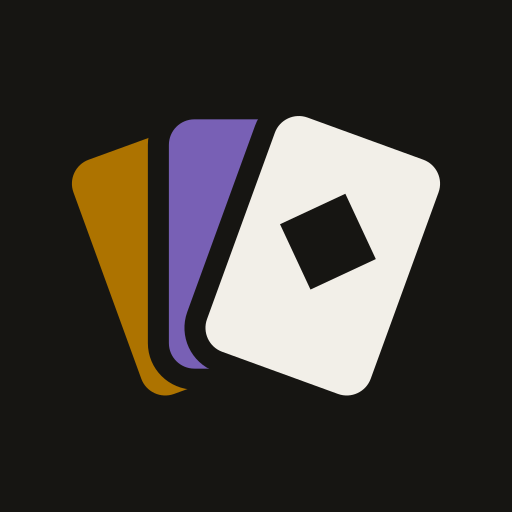
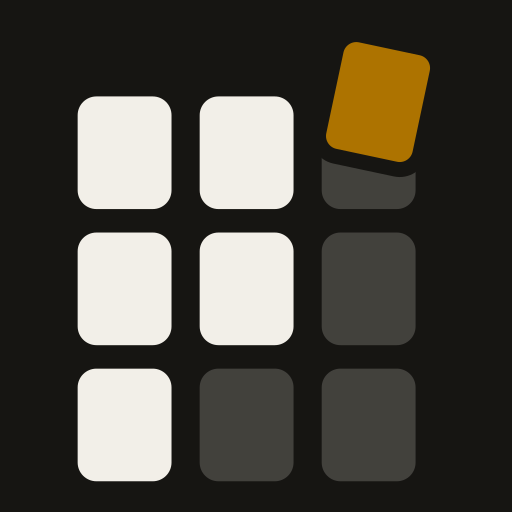
chore: binderly identity

diff --git a/components/atoms/logo.tsx b/components/atoms/logo.tsx
@@ -4,29 +4,35 @@ interface LogoProps {
   tone?: "light" | "dark";
 }
 
-// A fanned hand of three cards: amber for Pokémon, violet for Magic, ink for the collection.
+// A 9-pocket binder page filling up: ink cards, empty pockets, and the gold hit popping out of its slot.
+const POCKETS = [
+  { x: 6, y: 5, filled: true },
+  { x: 19, y: 5, filled: true },
+  { x: 32, y: 5, filled: false },
+  { x: 6, y: 19.5, filled: true },
+  { x: 19, y: 19.5, filled: true },
+  { x: 32, y: 19.5, filled: false },
+  { x: 6, y: 34, filled: true },
+  { x: 19, y: 34, filled: false },
+  { x: 32, y: 34, filled: false },
+];
+
 const Logo = ({ size = 32, variant = "full", tone }: LogoProps) => {
   // Without a tone the logo follows the current theme.
   const ink = tone ? (tone === "dark" ? "#FBFAF7" : "#1D1B18") : "rgb(var(--cm-ink))";
   const paper = tone ? (tone === "dark" ? "#1D1B18" : "#FBFAF7") : "rgb(var(--cm-paper))";
-  const muted = tone ? (tone === "dark" ? "#A8A298" : "#6B665E") : "rgb(var(--cm-ink-muted))";
 
   return (
-    <div className="inline-flex items-center" style={{ gap: Math.round(size * 0.34), color: ink }}>
-      <svg width={size} height={size} viewBox="2 1.5 28 27" className="flex-none block overflow-visible" aria-hidden>
-        <rect x="9.5" y="5" width="13" height="18" rx="2.4" fill="oklch(0.6 0.13 75)" style={{ stroke: paper }} strokeWidth="1.4" transform="rotate(-20 16 27)" />
-        <rect x="9.5" y="5" width="13" height="18" rx="2.4" fill="oklch(0.55 0.13 295)" style={{ stroke: paper }} strokeWidth="1.4" transform="rotate(0 16 27)" />
-        <rect x="9.5" y="5" width="13" height="18" rx="2.4" style={{ fill: ink, stroke: paper }} strokeWidth="1.4" transform="rotate(20 16 27)" />
-        <rect x="13.6" y="10.6" width="4.8" height="4.8" style={{ fill: paper }} transform="rotate(20 16 27) rotate(45 16 13)" />
+    <div className="inline-flex items-center" style={{ gap: Math.round(size * 0.3), color: ink }}>
+      <svg width={size} height={size} viewBox="0.5 -2.5 49 49" className="flex-none block overflow-visible" aria-hidden>
+        {POCKETS.map(({ x, y, filled }) => (
+          <rect key={`${x}-${y}`} x={x} y={y} width="10" height="12" rx="2" fill="currentColor" opacity={filled ? 1 : 0.2} />
+        ))}
+        <rect x="32.5" y="-1" width="11" height="13.2" rx="2.2" fill="oklch(0.6 0.13 75)" style={{ stroke: paper }} strokeWidth="1.6" transform="rotate(12 38 5.6)" />
       </svg>
       {variant === "full" && (
-        <span className="flex flex-col leading-none">
-          <span className="font-display font-semibold tracking-[-0.02em]" style={{ fontSize: Math.round(size * 0.56) }}>
-            Collection
-          </span>
-          <span className="font-geist-mono font-medium uppercase tracking-[.14em] mt-[3px]" style={{ fontSize: Math.max(10, Math.round(size * 0.3)), color: muted }}>
-            Manager
-          </span>
+        <span className="font-display font-bold leading-none tracking-[-0.04em]" style={{ fontSize: Math.round(size * 0.8) }}>
+          Binderly
         </span>
       )}
     </div>

diff --git a/components/organisms/footer.tsx b/components/organisms/footer.tsx
@@ -1,0 +1,50 @@
+// Libraries
+import Link from "next/link";
+
+// Components
+import Logo from "@/components/atoms/logo";
+
+const LINKS = [
+  { href: "/binders", label: "Binders" },
+  { href: "/wishlists", label: "Wishlist" },
+  { href: "/database", label: "Database" },
+];
+
+const Footer = () => (
+  <footer className="mt-auto border-t border-line text-ink-muted">
+    <div className="flex flex-col w-full max-w-[1440px] mx-auto gap-6 px-4 py-8 lg:px-10 lg:py-10">
+      <div className="flex flex-col justify-between gap-6 md:flex-row md:items-start">
+        <div className="flex flex-col gap-3">
+          <Link href="/" className="self-start">
+            <Logo size={26} />
+          </Link>
+          <p className="text-sm">Know what your Pokémon cards are worth.</p>
+        </div>
+        <nav className="flex gap-6 text-sm font-medium">
+          {LINKS.map((l) => (
+            <Link key={l.href} href={l.href} className="transition-colors hover:text-ink">
+              {l.label}
+            </Link>
+          ))}
+        </nav>
+      </div>
+      <div className="flex flex-col gap-2 pt-6 text-xs border-t border-line">
+        <p>
+          Prices from{" "}
+          <a href="https://www.cardmarket.com" target="_blank" rel="noopener noreferrer" className="underline underline-offset-2 hover:text-ink">
+            Cardmarket
+          </a>
+          , card details from{" "}
+          <a href="https://tcgdex.dev" target="_blank" rel="noopener noreferrer" className="underline underline-offset-2 hover:text-ink">
+            TCGdex
+          </a>
+          .
+        </p>
+        <p>Binderly is an unofficial fan project, not affiliated with Nintendo, The Pokémon Company or Cardmarket. Pokémon and its trademarks belong to their respective owners.</p>
+        <p>© {new Date().getFullYear()} Binderly</p>
+      </div>
+    </div>
+  </footer>
+);
+
+export default Footer;

diff --git a/components/metadata.tsx b/components/metadata.tsx
@@ -1,12 +1,12 @@
 import Head from "next/head";
 
-export const SITE_NAME = "Collection Manager";
-export const SITE_URL = "https://www.collectionmanager.petomis.com";
+export const SITE_NAME = "Binderly";
+export const SITE_URL = "https://binderly.petomis.com";
 const DEFAULT_DESCRIPTION =
   "Track the value of your Pokémon TCG collection. Organise cards and sealed products into binders, keep wishlists with target prices, and follow daily Cardmarket prices.";
 
 interface MetadataProps {
-  // Page name, shown before the site name ("Binders · Collection Manager"). The home page has none.
+  // Page name, shown before the site name ("Binders · Binderly"). The home page has none.
   title?: string;
   description?: string;
   // Path of the page, for the canonical URL
@@ -17,7 +17,7 @@ interface MetadataProps {
 
 // Title, description and social previews of a page. Icons, manifest and theme colour are shared, in pages/_document.tsx.
 const Metadata = ({ title, description = DEFAULT_DESCRIPTION, path = "/", noindex }: MetadataProps) => {
-  const fullTitle = title ? `${title} · ${SITE_NAME}` : `${SITE_NAME} · Pokémon TCG collection tracker`;
+  const fullTitle = title ? `${title} · ${SITE_NAME}` : `${SITE_NAME} · TCG collection tracker`;
   const url = SITE_URL + path;
   const image = `${SITE_URL}/og.png`;
 
@@ -36,7 +36,7 @@ const Metadata = ({ title, description = DEFAULT_DESCRIPTION, path = "/", noinde
       <meta property="og:image" content={image} />
       <meta property="og:image:width" content="1200" />
       <meta property="og:image:height" content="630" />
-      <meta property="og:image:alt" content="Collection Manager: know what your Pokémon cards are worth" />
+      <meta property="og:image:alt" content="Binderly: know what your Pokémon cards are worth" />
       <meta property="og:locale" content="en_US" />
 
       {/* X / Twitter */}

diff --git a/pages/_document.tsx b/pages/_document.tsx
@@ -6,8 +6,8 @@ export default function Document() {
     <Html lang="en">
       <Head>
         {/* Shared by every page; titles and descriptions are per page (components/metadata.tsx) */}
-        <meta name="application-name" content="Collection Manager" />
-        <meta name="apple-mobile-web-app-title" content="Collection" />
+        <meta name="application-name" content="Binderly" />
+        <meta name="apple-mobile-web-app-title" content="Binderly" />
         <link rel="icon" href="/favicon.ico" sizes="32x32" />
         <link rel="icon" href="/favicon.svg" type="image/svg+xml" />
         {/* Light set; switched to the dark one on dark devices by useHomeScreenIcons (lib/home-screen.ts) */}

diff --git a/tailwind.config.js b/tailwind.config.js
@@ -10,7 +10,7 @@ module.exports = {
         "geist-mono": ["var(--font-geist-mono)", "monospace"],
       },
       colors: {
-        // Collection Manager design palette, light/dark values in styles/tailwind.css
+        // Binderly design palette, light/dark values in styles/tailwind.css
         paper: "rgb(var(--cm-paper) / <alpha-value>)",
         canvas: "rgb(var(--cm-canvas) / <alpha-value>)",
         ink: { DEFAULT: "rgb(var(--cm-ink) / <alpha-value>)", muted: "rgb(var(--cm-ink-muted) / <alpha-value>)" },

diff --git a/containers/home/index.tsx b/containers/home/index.tsx
@@ -10,6 +10,7 @@ import { getSets } from "@/redux/slices/sets";
 
 // Components
 import Topbar from "@/components/organisms/topbar";
+import Footer from "@/components/organisms/footer";
 import NetWorth from "./components/net-worth";
 import BindersWidget from "./components/binders-widget";
 import TopFlop from "./components/top-flop";
@@ -40,6 +41,7 @@ const HomeContainer = () => {
           <TopFlop />
         </div>
       </div>
+      <Footer />
     </main>
   );
 };

diff --git a/README.md b/README.md
@@ -1,8 +1,8 @@
-# Collection Manager
+# Binderly
 
 Track the value of your Pokémon TCG collection. Organise cards and sealed products into binders, keep wishlists, and follow price history over time, with market prices collected daily from Cardmarket.
 
-Live at [collectionmanager.petomis.com](https://www.collectionmanager.petomis.com).
+Live at [binderly.petomis.com](https://binderly.petomis.com).
 
 ## Features
 
@@ -24,10 +24,10 @@ Offline page loading requires HTTPS (or localhost) and service-worker support. V
 ## How it works
 
 ```
- ┌──────────────────┐   daily    ┌─────────┐   reads / user data   ┌────────────────────┐
- │ Scraper (Lambda) │ ─────────▶ │ MongoDB │ ◀───────────────────▶ │ Collection Manager │
- │  not in this repo│   prices   └─────────┘                       │   (this Next.js)   │
- └──────────────────┘                                              └────────────────────┘
+ ┌──────────────────┐   daily    ┌─────────┐   reads / user data   ┌──────────────────┐
+ │ Scraper (Lambda) │ ─────────▶ │ MongoDB │ ◀───────────────────▶ │     Binderly     │
+ │  not in this repo│   prices   └─────────┘                       │  (this Next.js)  │
+ └──────────────────┘                                              └──────────────────┘
 ```
 
 - An external scraper runs daily and writes the catalog (sets, cards, sealed products) and their prices to MongoDB. It is not part of this repository.
